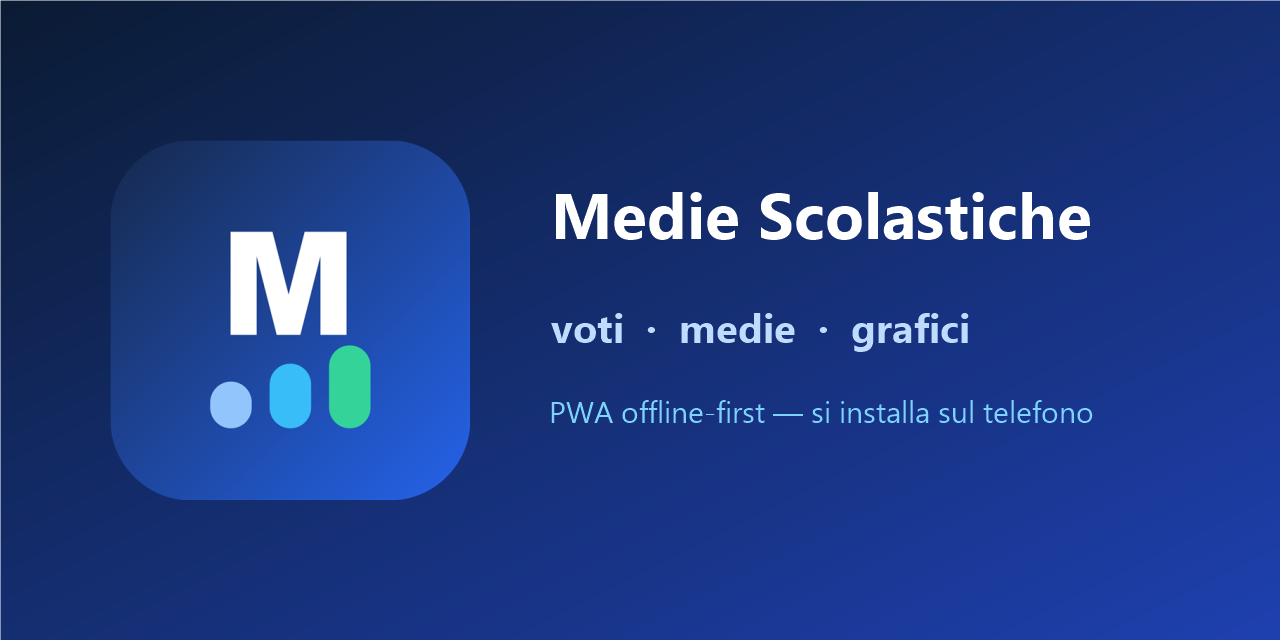
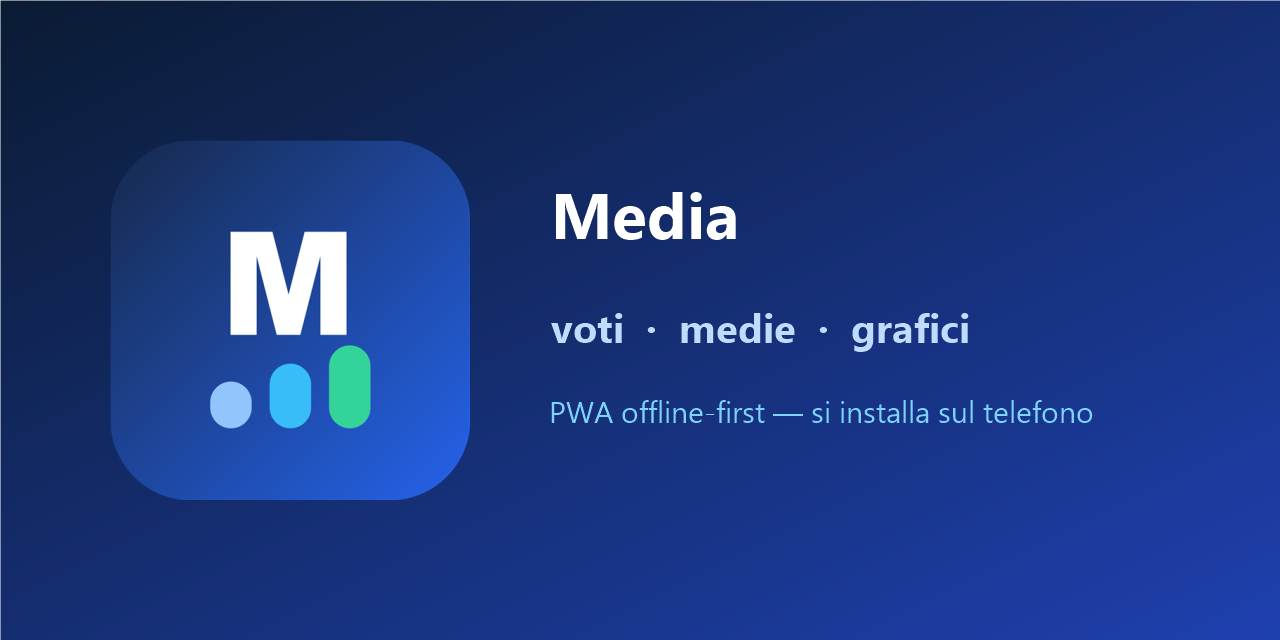
brand: app si chiama Media (titolo, manifest, onboarding, README, OG)

Changed region(s): [[0.5312, 0.2812, 0.875, 0.375]]

diff --git a/src/components/Impostazioni.tsx b/src/components/Impostazioni.tsx
@@ -22,7 +22,7 @@ export function SezioneImpostazioni() {
       const url = URL.createObjectURL(blob);
       const a = document.createElement('a');
       a.href = url;
-      a.download = `medie-backup-${anno?.label.replace('/', '-') ?? 'anno'}-${new Date().toISOString().slice(0, 10)}.json`;
+      a.download = `media-backup-${anno?.label.replace('/', '-') ?? 'anno'}-${new Date().toISOString().slice(0, 10)}.json`;
       a.click();
       URL.revokeObjectURL(url);
       setMsg('Backup scaricato. Conservalo (Drive, email, chat): con quel file recuperi tutto.');
@@ -53,7 +53,7 @@ export function SezioneImpostazioni() {
       body{font-family:Arial,sans-serif;padding:32px;color:#111} table{width:100%;border-collapse:collapse;margin-top:16px}
       td,th{border:1px solid #ccc;padding:8px;text-align:left} h1{color:#1e3a5f}
     </style></head><body>
-      <h1>Medie scolastiche — ${profile?.nome ?? ''} (${anno?.label ?? ''})</h1>
+      <h1>Media — ${profile?.nome ?? ''} (${anno?.label ?? ''})</h1>
       <p>${profile?.indirizzoNome ?? ''} · Media generale: <b>${formatMedia(gen)}</b> · Generato il ${new Date().toLocaleDateString('it-IT')}</p>
       <table><tr><th>Materia</th><th>Voti</th><th>Media</th></tr>
       ${righe.map((r) => `<tr><td>${r.nome}</td><td>${r.n}</td><td>${formatMedia(r.media)}</td></tr>`).join('')}

diff --git a/index.html b/index.html
@@ -12,12 +12,12 @@
       href="https://fonts.googleapis.com/css2?family=Inter:wght@400;500;600;700;800;900&display=swap"
       rel="stylesheet"
     />
-    <meta name="description" content="App per gestire medie scolastiche: voti, medie per materia, grafici e backup. Funziona offline su Android e iPhone." />
+    <meta name="description" content="Media: voti, medie per materia, grafici e backup. Funziona offline su Android e iPhone." />
     <meta name="mobile-web-app-capable" content="yes" />
     <meta name="apple-mobile-web-app-capable" content="yes" />
     <meta name="apple-mobile-web-app-status-bar-style" content="default" />
-    <meta name="apple-mobile-web-app-title" content="Medie" />
-    <title>Medie Scolastiche — voti, medie e grafici</title>
+    <meta name="apple-mobile-web-app-title" content="Media" />
+    <title>Media — voti, medie e grafici</title>
   </head>
   <body>
     <div id="root"></div>

diff --git a/src/components/ui.tsx b/src/components/ui.tsx
@@ -265,7 +265,7 @@ export function Onboarding() {
               M
             </div>
             <div>
-              <h1 className="text-2xl font-black tracking-tight">Medie Scolastiche</h1>
+              <h1 className="text-2xl font-black tracking-tight">Media</h1>
               <p className="text-sm text-sky-100/90">Voti, medie a due decimali e grafici. Offline, sui tuoi dispositivi.</p>
             </div>
           </div>

diff --git a/vite.config.ts b/vite.config.ts
@@ -14,8 +14,8 @@ export default defineConfig({
       registerType: 'autoUpdate',
       includeAssets: ['favicon.svg', 'apple-touch-icon.png', 'icon-maskable-512.png'],
       manifest: {
-        name: 'Medie Scolastiche',
-        short_name: 'Medie',
+        name: 'Media',
+        short_name: 'Media',
         description: 'Gestisci voti, medie e grafici per ogni materia',
         lang: 'it',
         theme_color: '#1e3a5f',

diff --git a/README.md b/README.md
@@ -1,4 +1,4 @@
-# Medie Scolastiche
+# Media
 
 > PWA offline-first per gestire voti, medie e grafici per ogni materia, dalla primaria all'università.
 
@@ -13,7 +13,7 @@
 
 ## Panoramica
 
-**Medie** è un'app web in italiano per studenti:
+**Media** è un'app web in italiano per studenti:
 
 - **Onboarding guidato** — nome, grado (primaria, secondaria di I grado, superiori, università), indirizzo di studio, tipo di periodo (trimestre/pentamestre, quadrimestre, anno unico) e valore di `+` / `-`.
 - **Materie automatiche** — catalogo pronto per medie, elementari e 12 indirizzi delle superiori (classico, scientifico, linguistico, informatica, AFM, turismo e altri), più materie custom.
@@ -35,7 +35,7 @@ Tutto resta sul dispositivo: nessun account, nessun server.
 | **Scala +/- configurabile** | Quanto vale `+` e `-` (default `0,25`), modificabile dal profilo |
 | **Pesi** | Ogni voto ha un peso `1-300` (`100` = normale) per verifiche che contano di più |
 | **Tipi e periodi** | Tipo `orale / scritto / pratico / verifica`, periodo `primo / secondo` mappato su trimestre, pentamestre o quadrimestre |
-| **Medie** | Pesata per materia + generale, formattazione `—` se senza voti, colori per fascia (sotto `6` in rosso) |
+| **Medie di materia e generale** | Pesata per materia + generale, formattazione `—` se senza voti, colori per fascia (sotto `6` in rosso) |
 | **Obiettivo** | Calcolo del voto necessario al prossimo voto (peso 100) per arrivare a una media target |
 | **Materie** | Aggiunta, rinomina, nascondi (esclusa dalla generale), elimina con i suoi voti |
 | **Anni** | Crea anno, cambia anno attivo, copia materie dell'anno precedente |
